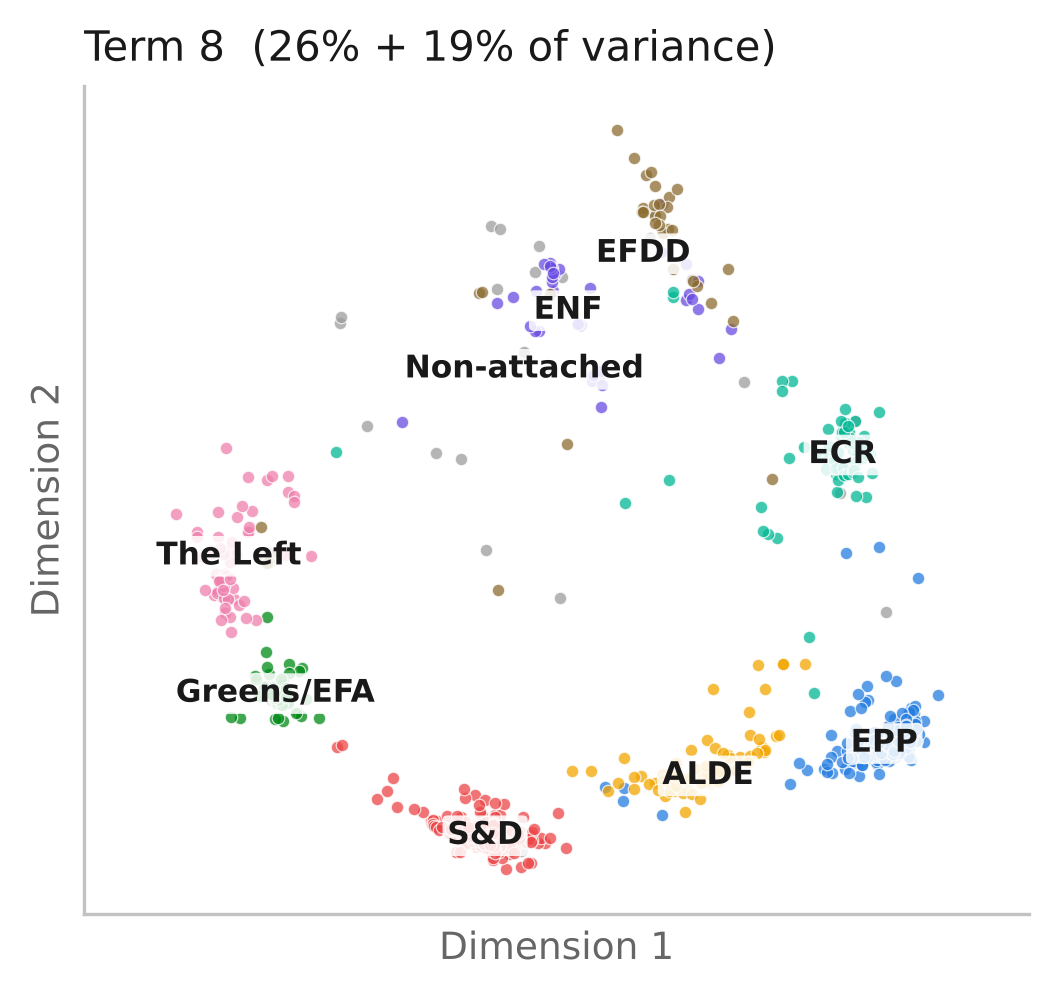
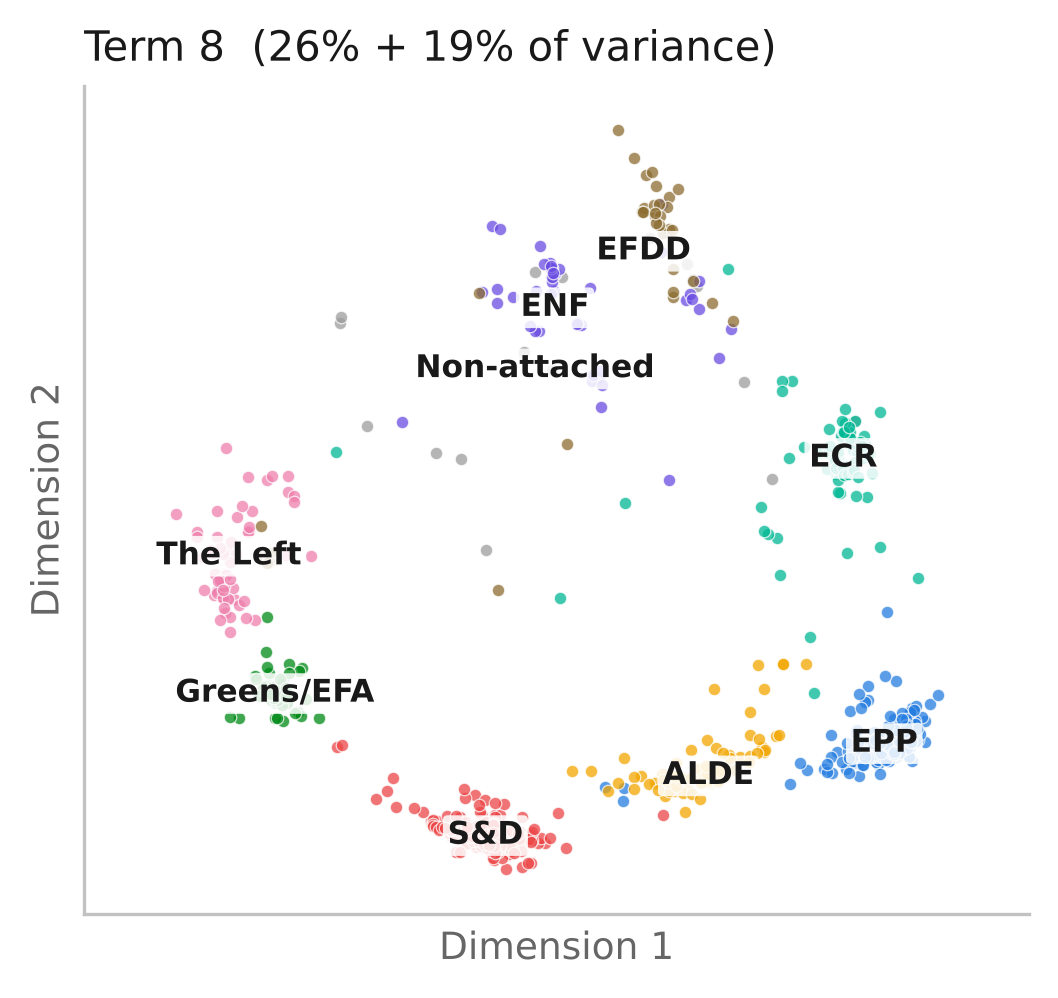
RQ1 before and after 2019: 2014-19 vs 2019-24 and 2024-26, summary table and figure (2014-19 party results left out)

diff --git a/src/ep8_analysis.py b/src/ep8_analysis.py
@@ -15,7 +15,7 @@ import svd_map
 import figures
 from agreement import build_term_graph
 from evaluation import describe_communities
-from load_votewatch import load_ep8, TERM
+from load_votewatch import load_ep8, TERM, SRC
 
 OUT = Path(__file__).resolve().parent.parent / "results"
 TABLES, FIGS = OUT / "tables", OUT / "figures"
@@ -64,6 +64,16 @@ def compare_terms(r):
         old = pd.read_csv(TABLES / f"{old_name}.csv")
         return pd.concat([new, old], ignore_index=True)
 
+    # Without the EP party history (fetch_ep_groups.py), the 2014-19 national party is the
+    # VoteWatch end-of-term label, which splits renamed parties in two. Party results for
+    # 2014-19 are then left out of the comparison.
+    party_ok = (SRC / "ep8_party_history.csv").exists()
+    if not party_ok:
+        r = dict(r)
+        r["main"] = r["main"][r["main"].label != "party"]
+        r["pairs"] = r["pairs"][~r["pairs"].pair_type.str.contains("party")]
+        r["splits"] = r["splits"].iloc[0:0]
+        r["sep"] = r["sep"][r["sep"].label != "party"]
     main = both(r["main"], "rq1_main")
     main = main.pivot_table(index="term", columns="label", values=["AMI", "ARI"]).round(3)
     pairs = both(r["pairs"], "rq1_pair_agreement").pivot_table(
@@ -73,10 +83,41 @@ def compare_terms(r):
     splits = both(r["splits"], "rq1_splits_nationality")
     splits = splits[splits.group == "ALL (pooled)"].set_index("term")[
         ["together_same_party", "together_different_party"]].round(3)
+    summary = term_summary(r)
     for name, t in [("main", main), ("pair_agreement", pairs), ("svd_separation", sep),
-                    ("splits", splits)]:
+                    ("splits", splits), ("summary", summary)]:
         t.to_csv(TABLES / f"three_terms_{name}.csv")
-    return main, pairs, sep, splits
+    return main, pairs, sep, splits, summary
+
+
+def term_summary(r):
+    """One column per term with the numbers that show how the terms differ."""
+    def both(new, old_name):
+        return pd.concat([new, pd.read_csv(TABLES / f"{old_name}.csv")], ignore_index=True)
+    main = both(r["main"], "rq1_main")
+    pairs = both(r["pairs"], "rq1_pair_agreement")
+    sep = both(r["sep"], "svd_separation")
+    arch = both(pd.read_csv(TABLES / "ep8_svd_arch_check.csv"), "svd_arch_check")
+    rows = {}
+    for t in sorted(main.term.unique()):
+        m, p = main[main.term == t].set_index("label"), pairs[pairs.term == t].set_index("pair_type")
+        s, a = sep[sep.term == t].set_index("label"), arch[arch.term == t].iloc[0]
+        rows[TERM_NAMES.get(int(t), t)] = {
+            "communities found (Louvain)": int(m.n_communities.iloc[0]),
+            "modularity": m.Q_louvain.iloc[0],
+            "AMI with European group": m.AMI["group"],
+            "AMI with country": m.AMI["country"],
+            "agreement: same group, different country": p.mean_agreement["same group, different country"],
+            "agreement: different group, same country": p.mean_agreement["different group, same country"],
+            "agreement: baseline (different group and country)":
+                p.mean_agreement["different group, different country (baseline)"],
+            "SVD map: variance on dimension 1": s.explained_dim1.iloc[0],
+            "SVD map: variance on dimension 2": s.explained_dim2.iloc[0],
+            "SVD map: dimension 2 explained by a curve of dimension 1 (R2)": a.R2_quadratic,
+            "SVD map: silhouette by group": s.silhouette["group"],
+            "SVD map: silhouette by country": s.silhouette["country"],
+        }
+    return pd.DataFrame(rows).round(3)
 
 
 TERM_NAMES = {8: "2014-19", 9: "2020-24", 10: "2024-26"}
@@ -98,7 +139,8 @@ def three_term_figure(path=None):
     fig, (a, b) = plt.subplots(1, 2, figsize=(9.2, 3.3), gridspec_kw={"width_ratios": [1, 1.5]})
     for col in ["group", "party", "country"]:
         y = main[("AMI", col)].to_numpy()
-        a.plot(x, y, color=figures.LABEL_COLOURS[col], lw=2, marker="o", ms=5)
+        ok = ~np.isnan(y)
+        a.plot(x[ok], y[ok], color=figures.LABEL_COLOURS[col], lw=2, marker="o", ms=5)
         a.annotate(figures.LABEL_NAMES[col], (x[-1], y[-1]), xytext=(6, 0),
                    textcoords="offset points", va="center", fontsize=8, color=figures.INK2,
                    annotation_clip=False)
@@ -109,7 +151,7 @@ def three_term_figure(path=None):
     width = 0.8 / len(terms)
     shades = ["#b9d3f2", "#6fa6e6", "#257de0"][-len(terms):]
     for i, t in enumerate(pairs.columns):
-        vals = [pairs.loc[k, t] for k, _ in PAIR_ORDER]
+        vals = [pairs.loc[k, t] if k in pairs.index else np.nan for k, _ in PAIR_ORDER]
         b.bar(np.arange(len(PAIR_ORDER)) + (i - (len(terms) - 1) / 2) * width, vals,
               width=width * 0.95, color=shades[i], label=TERM_NAMES.get(int(t), t))
     b.set_xticks(np.arange(len(PAIR_ORDER)), [lbl for _, lbl in PAIR_ORDER], fontsize=7.5)

diff --git a/README.md b/README.md
@@ -53,7 +53,11 @@ Results go to `results/tables/ep8_*.csv`, `results/tables/three_terms_*.csv` and
 history with dates from the EP Open Data API (https://data.europarl.europa.eu, CC BY 4.0) and writes
 `data/raw/votewatch/ep8_switches.csv`; `load_votewatch.py` then uses the group and party the MEP
 had on the day of each vote (renamed parties, e.g. Front National -> Rassemblement National,
-count as one party). The loader also fixes the VoteWatch dates, which have day and month
+count as one party).
+For RQ1 the comparison is 2014-19 vs 2019-24 and 2024-26 side by side
+(`results/tables/three_terms_summary.csv`). National-party results are shown for 2019-2026
+only: VoteWatch gives one end-of-term party label per MEP, so the 2014-19 party numbers are
+left out unless `ep8_party_history.csv` is present. The loader also fixes the VoteWatch dates, which have day and month
 swapped whenever the day is 12 or less.
 
 ## Layout
